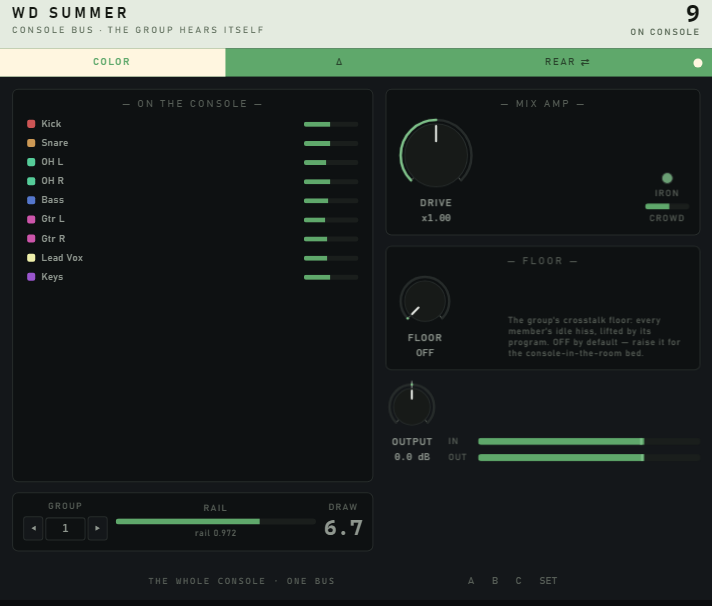
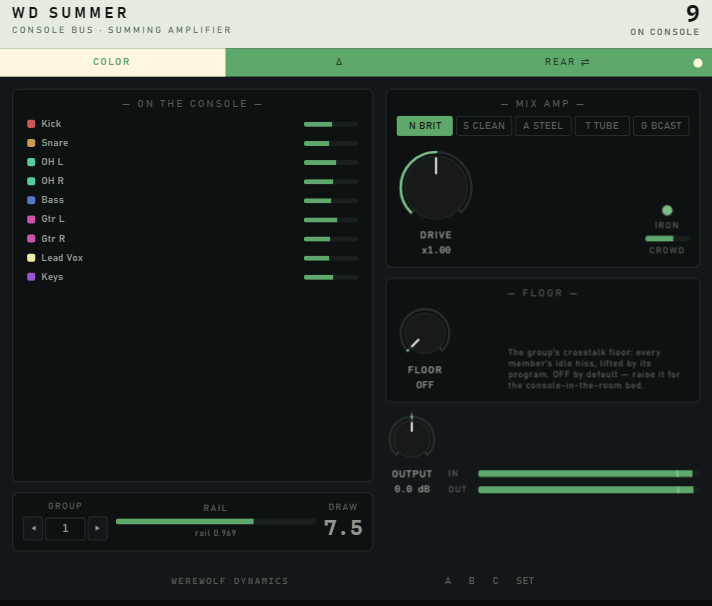
v0.7.6: bus banks on WD Summer, refreshed face

diff --git a/README.md b/README.md
@@ -153,7 +153,10 @@ built in 1972 drift.
 **WD Summer** — the bus those channels sum into, and it behaves like one.
 The more channels you load onto a group, the more the shared supply sags,
 so a busy mix grabs sooner than a sparse one — a mechanism, not a knob. The
-face lists the channels currently alive on the group.
+face lists the channels currently alive on the group. The same five-desk
+BANK selector as the channel, bus-sized: on the big clean inline desk the
+color is not a transformer at all — the mix modulates its own power rails,
+which is what that console's famous glue actually is.
 
 <img src="assets/wd-summer-front.png" width="700" alt="WD Summer faceplate">
 
